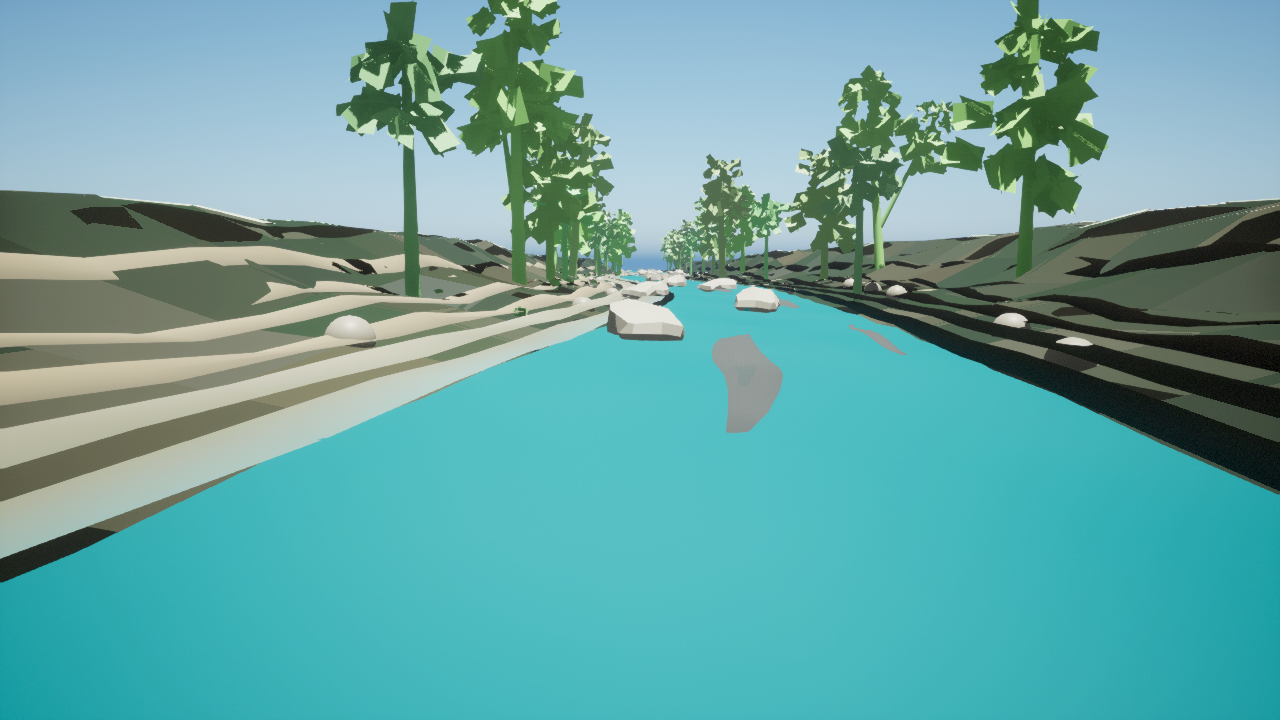
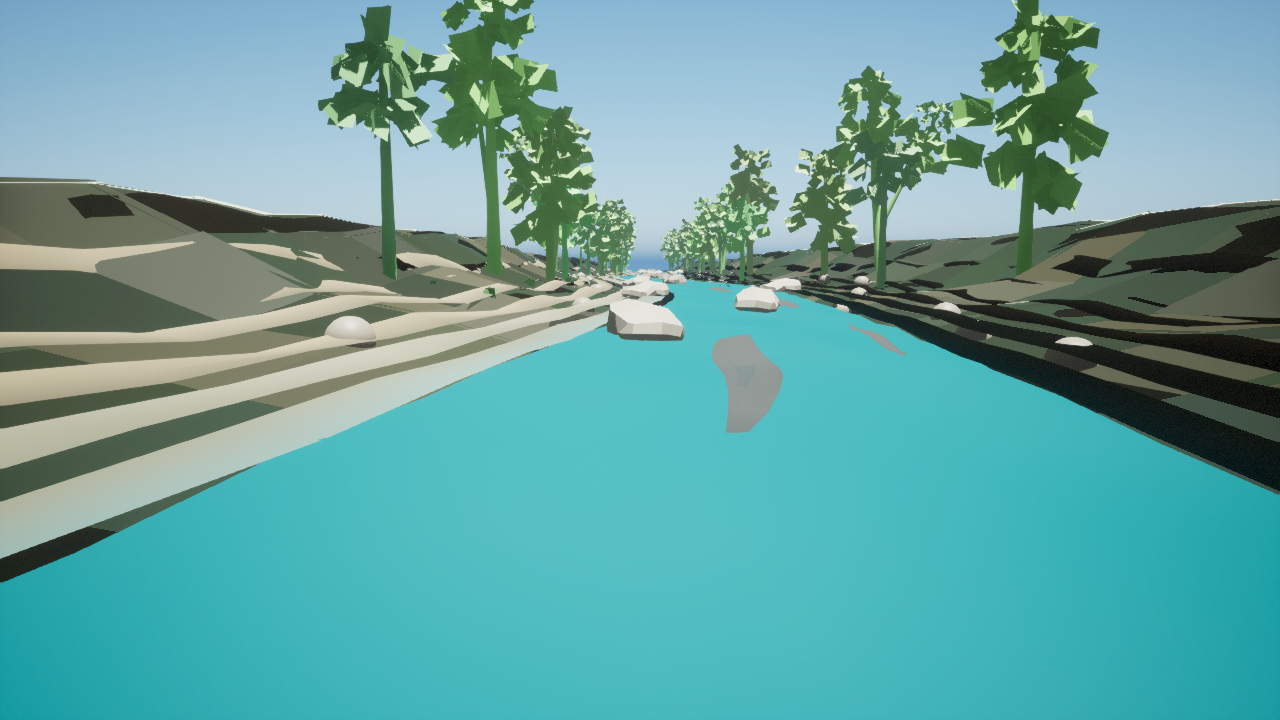
Wire South Fork preview to pilot derivatives

diff --git a/unreal/Plugins/RaftSim/Source/RaftSimEditor/Private/RaftSimEditorModule.cpp b/unreal/Plugins/RaftSim/Source/RaftSimEditor/Private/RaftSimEditorModule.cpp
@@ -218,19 +218,19 @@ TArray<FRaftSimEnvironmentPreviewSpec> GetEnvironmentPreviewSpecs()
     SouthFork.MapPackagePath = TEXT("/Game/RaftSim/Maps/EnvironmentPreviews/L_SouthForkAmerican_PhotorealPreview");
     SouthFork.SourceManifest = TEXT("physics/data/real_world/south_fork_american_chili_bar/source_manifest.json");
     SouthFork.AerialDrapeImage =
-        TEXT("physics/data/real_world/south_fork_american_chili_bar/imagery/usda_naip_chili_bar_corridor_sample_1024.png");
+        TEXT("physics/data/real_world/south_fork_american_chili_bar/imagery/production_import_pilot/source_drape_4096.png");
     SouthFork.TerrainReliefImage =
-        TEXT("physics/data/real_world/south_fork_american_chili_bar/terrain/usgs_3dep_chili_bar_corridor_relief_preview_1024.png");
+        TEXT("physics/data/real_world/south_fork_american_chili_bar/terrain/production_import_pilot/dem_relief_2048.png");
     SouthFork.HeightfieldPreviewImage =
-        TEXT("physics/data/real_world/south_fork_american_chili_bar/terrain/usgs_3dep_chili_bar_corridor_heightfield_1009.png");
+        TEXT("physics/data/real_world/south_fork_american_chili_bar/terrain/production_import_pilot/heightfield_candidate_2017.png");
     SouthFork.WaterMaskImage =
-        TEXT("physics/data/real_world/south_fork_american_chili_bar/imagery/usda_naip_chili_bar_corridor_water_mask_1024.png");
+        TEXT("physics/data/real_world/south_fork_american_chili_bar/imagery/production_import_pilot/water_mask_2048.png");
     SouthFork.VegetationMaskImage =
-        TEXT("physics/data/real_world/south_fork_american_chili_bar/imagery/usda_naip_chili_bar_corridor_vegetation_mask_1024.png");
+        TEXT("physics/data/real_world/south_fork_american_chili_bar/imagery/production_import_pilot/vegetation_mask_2048.png");
     SouthFork.ElevationSample =
-        TEXT("physics/data/real_world/south_fork_american_chili_bar/terrain/usgs_3dep_chili_bar_corridor_sample_512.tif");
+        TEXT("physics/data/real_world/south_fork_american_chili_bar/terrain/production_import_pilot/3dep_tiles");
     SouthFork.SourceDrapeDescription =
-        TEXT("larger official USDA/APFO NAIP 1024px corridor sample sampled into a denser terrain-conforming source-drape mosaic; larger derived USGS 3DEP 1024px relief preview and review-gated 1009px heightfield candidate sampled into bank and valley preview geometry; review-gated source water/vegetation masks sampled into terrain color and deterministic wet-rock, talus, foliage, and understory placement; first-party procedural wet-bank, leaf-litter, talus, and vertex-color water-gradient detail generated as rights-safe proxy dressing; full elevation conditioning remains pending; rocks, foliage, water shaders, foam, raft, and lighting remain proxy layers");
+        TEXT("stitched South Fork production-import pilot source drape generated from four official USDA/APFO NAIP 2048px tiles, plus stitched USGS 3DEP pilot DEM relief and a review-gated 2017px heightfield candidate sampled into bank and valley preview geometry; pilot source water/vegetation masks are sampled into terrain color and deterministic wet-rock, talus, foliage, and understory placement; all pilot derivatives remain review-gated until metadata review, mosaic/clip, hydrologic conditioning, channel burning, masks, and guide/geospatial approval pass; rocks, foliage, water shaders, foam, raft, and lighting remain proxy layers");
     SouthFork.FlowBandId = TEXT("median_runnable");
     SouthFork.FlowBandDisplayName = TEXT("Median Runnable / Summer Commercial");
     SouthFork.FlowBandSource = TEXT("physics/data/real_world/south_fork_american_chili_bar/flow_presets.json");

diff --git a/docs/photoreal-river-environment-production-plan.md b/docs/photoreal-river-environment-production-plan.md
@@ -131,7 +131,7 @@ Initial source slice:
 
 - South Fork American: `/Game/RaftSim/Maps/EnvironmentPreviews/L_SouthForkAmerican_PhotorealPreview`, guide-seat capture `docs/environment-captures/photoreal_river_previews/american_south_fork_guide_seat_downstream.png`, river-eye capture `docs/environment-captures/photoreal_river_previews/american_south_fork_river_eye_downstream.png`.
 - South Fork source data: `physics/data/real_world/south_fork_american_chili_bar/production_source_pull_manifest.json` records the initial official pull; this is enough to prove provenance plumbing but not enough for production terrain/imagery.
-- South Fork Unreal source layer: `physics/data/real_world/south_fork_american_chili_bar/imagery/usda_naip_chili_bar_corridor_sample_1024.png` is sampled into a denser terrain-conforming source-drape mosaic for the generated preview map, `physics/data/real_world/south_fork_american_chili_bar/terrain/usgs_3dep_chili_bar_corridor_relief_preview_1024.png` and `physics/data/real_world/south_fork_american_chili_bar/terrain/usgs_3dep_chili_bar_corridor_heightfield_1009.png` are sampled into preview terrain geometry, and `physics/data/real_world/south_fork_american_chili_bar/terrain/usgs_3dep_chili_bar_corridor_sample_512.tif` is recorded for the next heightfield-conditioning pass.
+- South Fork Unreal source layer: `physics/data/real_world/south_fork_american_chili_bar/imagery/production_import_pilot/source_drape_4096.png` is now sampled into the generated preview map from the stitched official NAIP pilot pull, `physics/data/real_world/south_fork_american_chili_bar/terrain/production_import_pilot/dem_relief_2048.png` and `physics/data/real_world/south_fork_american_chili_bar/terrain/production_import_pilot/heightfield_candidate_2017.png` are sampled into preview terrain geometry, and `physics/data/real_world/south_fork_american_chili_bar/imagery/production_import_pilot/water_mask_2048.png` plus `vegetation_mask_2048.png` guide source color/detail placement. These pilot derivatives remain review-gated until metadata review, mosaic/clip, hydrologic conditioning, channel burning, and guide/geospatial approval pass.
 - Colorado River: `/Game/RaftSim/Maps/EnvironmentPreviews/L_ColoradoGrandCanyon_PhotorealPreview`, guide-seat capture `docs/environment-captures/photoreal_river_previews/colorado_river_guide_seat_downstream.png`, river-eye capture `docs/environment-captures/photoreal_river_previews/colorado_river_river_eye_downstream.png`.
 - Colorado source data: `physics/data/real_world/colorado_river_grand_canyon_rowing/production_source_pull_manifest.json` records the initial official pull plus larger active corridor samples; `imagery/usda_naip_lees_ferry_corridor_sample_1024.png` is sampled into a denser terrain-conforming canyon source-drape mosaic, `terrain/usgs_3dep_lees_ferry_corridor_relief_preview_1024.png` and `terrain/usgs_3dep_lees_ferry_corridor_heightfield_1009.png` are sampled into preview canyon terrain geometry, and `terrain/usgs_3dep_lees_ferry_corridor_sample_512.tif` is recorded for the next canyon heightfield-conditioning pass.
 - Pacuare River: `/Game/RaftSim/Maps/EnvironmentPreviews/L_PacuareRainforest_PhotorealPreview`, guide-seat capture `docs/environment-captures/photoreal_river_previews/pacuare_guide_seat_downstream.png`, river-eye capture `docs/environment-captures/photoreal_river_previews/pacuare_river_eye_downstream.png`.

diff --git a/TODO.md b/TODO.md
@@ -962,6 +962,7 @@ This milestone turns the three runnable river targets into complete, reviewable,
 - [x] Select South Fork American as the first production geospatial import pilot and generate its executable source recipe: `physics/data/real_world/south_fork_american_chili_bar/production_import_pilot.json` now defines a deterministic 2x2 official-service tile plan for USGS 3DEP DEM and USDA/APFO NAIP imagery exports, plus hydrography, mask, modern flow/stage, access, and rights-reviewed media gates before the pilot can replace preview data.
 - [x] Pull the first South Fork production import pilot source tiles: four official USGS 3DEP 1024px float GeoTIFF DEM tiles and four official USDA/APFO NAIP 2048px RGB PNG imagery tiles are now attached under `terrain/production_import_pilot/3dep_tiles/` and `imagery/production_import_pilot/naip_tiles/`, with checksums, dimensions, source URLs, and review gates recorded in `production_import_pilot_pull_manifest.json`. The tiles remain review-gated until mosaic/clip, metadata review, hydrologic conditioning, mask derivation, and guide/geospatial approval pass.
 - [x] Generate review-gated South Fork production-import pilot derivatives from the pulled source tiles: `source_drape_4096.png`, `dem_relief_2048.png`, `heightfield_candidate_2017.png`, `water_mask_2048.png`, and `vegetation_mask_2048.png` are now generated from the official tile pull with processing/caveats recorded in `production_import_pilot_derivatives_manifest.json`. These are larger source-derived Unreal inputs for the next pass, not conditioned production terrain.
+- [x] Wire the South Fork Unreal preview to the production-import pilot derivatives: the generated preview now uses `source_drape_4096.png`, `dem_relief_2048.png`, `heightfield_candidate_2017.png`, `water_mask_2048.png`, and `vegetation_mask_2048.png` for South Fork terrain/drape/mask sampling while keeping those inputs review-gated until conditioning, masks, and guide/geospatial approval pass.
 - [ ] Pull or attach reviewed production geospatial source data: DEM/lidar, hydrography, aerial/satellite imagery, water/vegetation masks, flow/gauge/rainfall history, protected-area/access context, and guide/media annotation references.
 - [ ] Replace proxy terrain, banks, rocks, foliage, water materials, foam/spray/mist, wetness, and lighting with source-derived or rights-cleared assets until screenshots read as lifelike without hiding hazards or rescue targets.
 - [ ] Add or license production-quality river environment asset packs/materials, or generate approved first-party procedural equivalents, for canyon walls, riverbeds, wet boulders, shore vegetation, tropical canopy, foam/spray/mist, raft foreground, and river-specific atmospheric lighting.
